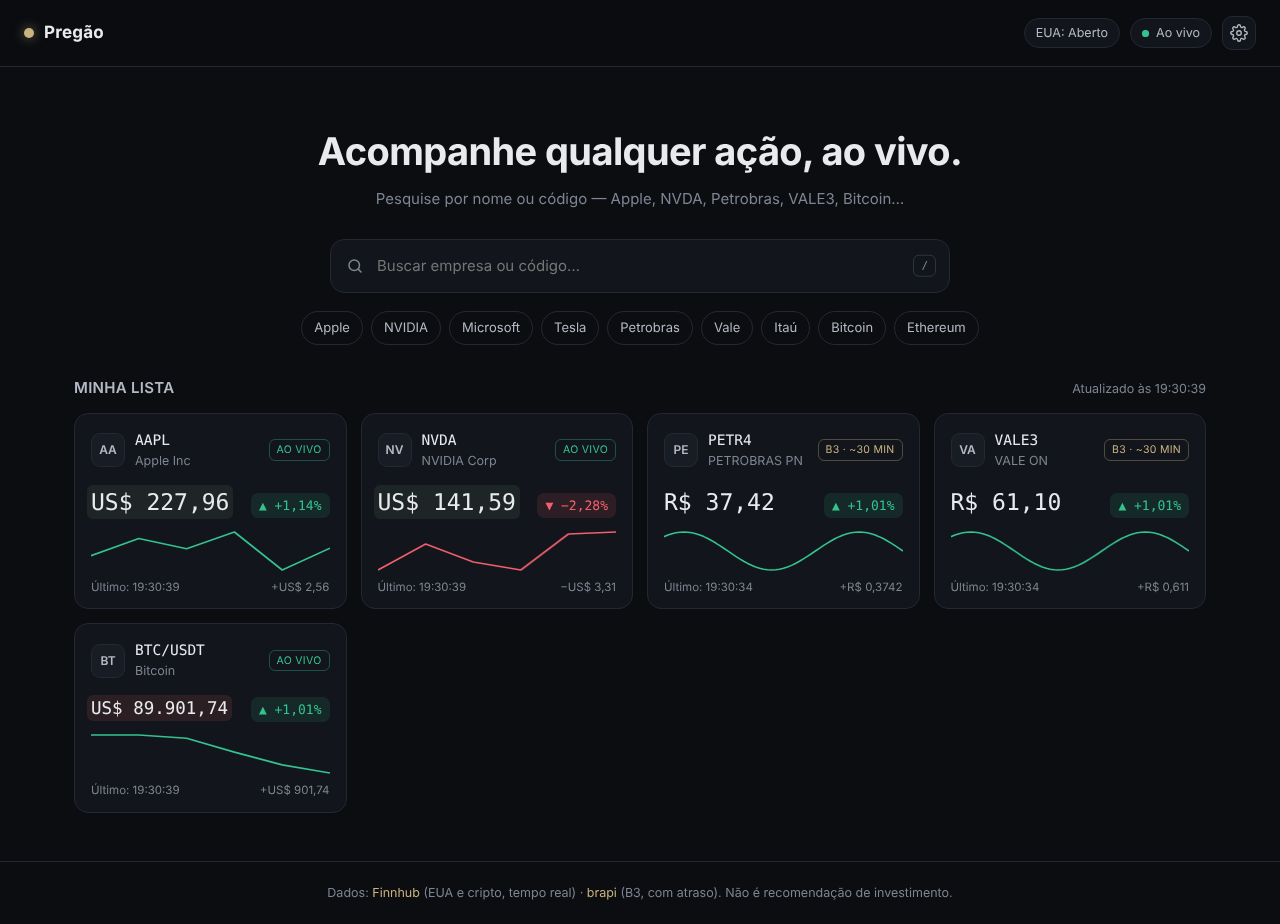
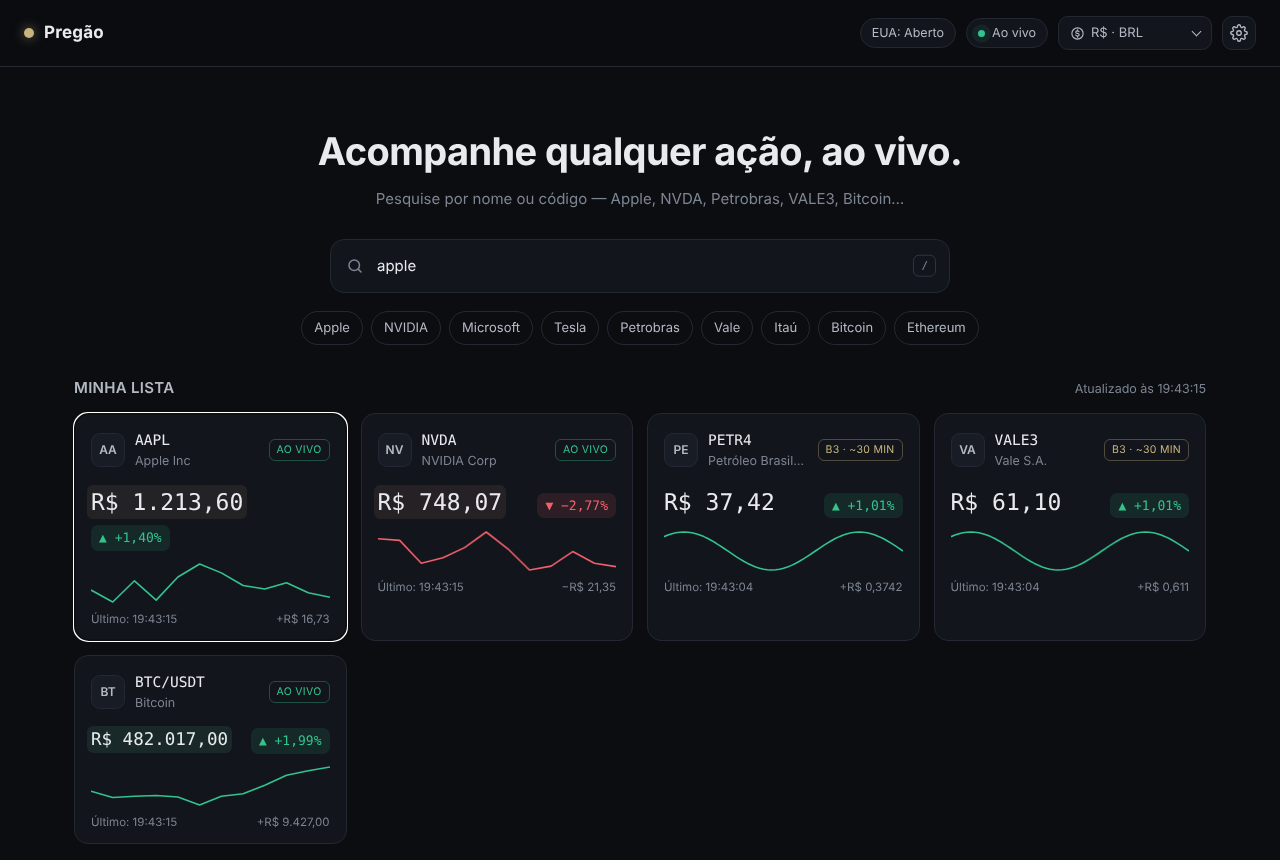
Seletor de moeda + correções de 429 (brapi) e certificado (Binance)
- Novo seletor no topo converte preços, máx/mín, valor de mercado e eixo do gráfico
- brapi: histórico do dia só 1x por ativo; pausa de 2 min ao receber 429
- Binance: tenta data-api.binance.vision antes; para de tentar por 15 min se falhar
- Selo FECHADO fora do pregão dos EUA; não troca nome da empresa pelo código

Claude-Session: https://claude.ai/code/session_01YYtk73oqadMUVx7w9VjdFd

diff --git a/app.js b/app.js
@@ -18,6 +18,27 @@ const FINNHUB_REST = "https://finnhub.io/api/v1";
 const FINNHUB_WS = "wss://ws.finnhub.io";
 const BRAPI = "https://brapi.dev/api";
 const BINANCE = "https://api.binance.com/api/v3";
+// [NOVO] Câmbio: open.er-api (160+ moedas) e reserva Frankfurter (Banco Central Europeu) — grátis e sem chave
+const FX_APIS = [
+  { url: "https://open.er-api.com/v6/latest/USD", pick: (j) => j.rates, date: (j) => j.time_last_update_utc && new Date(j.time_last_update_utc).toISOString().slice(0, 10) },
+  { url: "https://api.frankfurter.dev/v1/latest?base=USD", pick: (j) => ({ USD: 1, ...j.rates }), date: (j) => j.date },
+];
+const FX_REFRESH_MS = 60 * 60 * 1000; // câmbio de referência muda pouco: 1x por hora
+
+// [NOVO] Moedas que aparecem no seletor ("orig" = moeda original do ativo)
+const CURRENCIES = [
+  { code: "orig", label: "Moeda original" },
+  { code: "BRL", label: "R$ · BRL" },
+  { code: "USD", label: "US$ · USD" },
+  { code: "EUR", label: "€ · EUR" },
+  { code: "GBP", label: "£ · GBP" },
+  { code: "JPY", label: "¥ · JPY" },
+  { code: "CAD", label: "C$ · CAD" },
+  { code: "CHF", label: "Fr · CHF" },
+  { code: "CNY", label: "¥ · CNY" },
+  { code: "ARS", label: "$ · ARS" },
+];
+const STORAGE_CCY = "pregao.currency";
 
 const STORAGE_CONFIG = "pregao.config";
 const STORAGE_LIST = "pregao.watchlist";
@@ -61,6 +82,9 @@ const state = {
   ws: null,
   wsRetry: 0,
   detail: null,      // símbolo aberto no painel
+  currency: load(STORAGE_CCY, "orig"), // [NOVO] moeda escolhida no seletor
+  fx: { USD: 1 },    // [NOVO] quanto vale 1 dólar em cada moeda (ex.: fx.BRL = 5,4)
+  fxDate: null,      // [NOVO] data da cotação do câmbio
   dirty: new Set(),  // símbolos que precisam ser redesenhados
   timers: [],
 };
@@ -95,21 +119,44 @@ function currencyOf(symbol) {
   return providerOf(symbol) === "b3" ? "BRL" : "USD";
 }
 
+// [NOVO] Moeda em que o valor vai ser MOSTRADO (a escolhida ou a original)
+function targetCurrency(symbol) {
+  const c = state.currency;
+  if (c === "orig" || !state.fx[c]) return currencyOf(symbol); // sem câmbio carregado → original
+  return c;
+}
+// [NOVO] Converte um valor da moeda original do ativo para a moeda escolhida
+// Regra de três via dólar: valor ÷ (moeda original por US$) × (moeda alvo por US$)
+function convert(v, symbol) {
+  if (v == null || isNaN(v)) return v;
+  const from = currencyOf(symbol), to = targetCurrency(symbol);
+  if (from === to) return v;
+  return (v / state.fx[from]) * state.fx[to];
+}
+
+// [ALTERADO] Agora converte antes de formatar
 function fmtPrice(v, symbol) {
   if (v == null || isNaN(v)) return "—";
-  const digits = v < 1 ? 6 : v < 10 ? 3 : 2;
+  v = convert(v, symbol);
+  const currency = targetCurrency(symbol);
+  // Moedas sem centavos (ex.: iene) usam 0 casas; as outras, 2
+  const base = new Intl.NumberFormat("pt-BR", { style: "currency", currency }).resolvedOptions().minimumFractionDigits;
+  const digits = v < 1 ? 6 : v < 10 ? Math.max(base, 3) : base;
   return new Intl.NumberFormat("pt-BR", {
-    style: "currency", currency: currencyOf(symbol),
-    minimumFractionDigits: 2, maximumFractionDigits: digits,
+    style: "currency", currency,
+    minimumFractionDigits: base, maximumFractionDigits: digits,
   }).format(v);
 }
 function fmtNum(v, digits = 2) {
   if (v == null || isNaN(v)) return "—";
   return new Intl.NumberFormat("pt-BR", { minimumFractionDigits: digits, maximumFractionDigits: digits }).format(v);
 }
+// [ALTERADO] Converte e usa o símbolo da moeda escolhida
 function fmtBig(v, symbol) {
   if (!v) return "—";
-  const cur = currencyOf(symbol) === "BRL" ? "R$" : "US$";
+  v = convert(v, symbol);
+  const code = targetCurrency(symbol);
+  const cur = { BRL: "R$", USD: "US$" }[code] || code;
   if (v >= 1e12) return `${cur} ${fmtNum(v / 1e12)} tri`;
   if (v >= 1e9) return `${cur} ${fmtNum(v / 1e9)} bi`;
   if (v >= 1e6) return `${cur} ${fmtNum(v / 1e6)} mi`;
@@ -223,17 +270,25 @@ async function loadUS(symbol) {
 }
 
 /* ---------- 4.2 Ações da B3 (brapi, com atraso) ---------- */
+// [CORRIGIDO] A brapi devolvia 429 (limite de requisições) porque o histórico do dia
+// era pedido de novo a cada atualização. Agora: histórico só 1 vez por ativo e,
+// se der 429, o app espera 2 min sem chamar a brapi e mantém o último preço na tela.
+let brapiPausedUntil = 0;
+
 async function loadB3(symbol, withHistory = false) {
   const r = rec(symbol);
   const ticker = displaySymbol(symbol);
+  if (Date.now() < brapiPausedUntil) return;             // em pausa por limite
+  const wantHistory = withHistory && !r.histTried;       // histórico só uma vez
   try {
-    const params = withHistory ? { range: "1d", interval: "5m" } : {};
     let json;
-    try { json = await brapi(`/quote/${ticker}`, params); }
-    catch (e) {
-      // Se o histórico não estiver liberado no plano, tenta só a cotação
-      if (withHistory && e.message !== "BRAPI_TOKEN") json = await brapi(`/quote/${ticker}`);
-      else throw e;
+    try {
+      json = await brapi(`/quote/${ticker}`, wantHistory ? { range: "1d", interval: "5m" } : {});
+    } catch (e) {
+      if (!wantHistory || e.message === "BRAPI_TOKEN" || e.message === "RATE_LIMIT") throw e;
+      json = await brapi(`/quote/${ticker}`);           // histórico indisponível → só cotação
+    } finally {
+      if (wantHistory) r.histTried = true;
     }
     const q = json.results && json.results[0];
     if (!q || q.regularMarketPrice == null) throw new Error("NOT_FOUND");
@@ -251,7 +306,7 @@ async function loadB3(symbol, withHistory = false) {
       name: q.longName || q.shortName, logo: q.logourl, marketCap: q.marketCap,
       exchange: "B3", country: "BR",
     };
-    setName(symbol, q.shortName || q.longName);
+    setName(symbol, q.longName || q.shortName);
 
     // Histórico intradiário (se veio)
     if (Array.isArray(q.historicalDataPrice) && q.historicalDataPrice.length) {
@@ -262,34 +317,54 @@ async function loadB3(symbol, withHistory = false) {
     }
     pushTick(r, r.lastTs, r.price);
   } catch (e) {
+    if (e.message === "RATE_LIMIT") {
+      brapiPausedUntil = Date.now() + 120_000;           // pausa de 2 min
+      if (r.price != null) { markDirty(symbol); return; } // mantém o último preço
+    }
     r.status = "err";
     r.note = e.message === "BRAPI_TOKEN" ? "Precisa do token da brapi"
            : e.message === "NOT_FOUND" ? "Código não encontrado na B3"
-           : e.message === "RATE_LIMIT" ? "Limite da brapi — aguarde"
+           : e.message === "RATE_LIMIT" ? "Limite da brapi — tentando de novo em 2 min"
            : "Falha ao buscar (brapi)";
   }
   markDirty(symbol);
 }
 
 /* ---------- 4.3 Cripto (variação de 24h pela Binance) ---------- */
+// [CORRIGIDO] api.binance.com dava ERR_CERT_AUTHORITY_INVALID na sua rede
+// (antivírus ou provedor interceptando o certificado). Agora tenta primeiro o
+// domínio público de dados da Binance; se nenhum funcionar, para de tentar por 15 min
+// e usa a variação desde que a página abriu. O preço ao vivo (Finnhub) não é afetado.
+const BINANCE_HOSTS = ["https://data-api.binance.vision/api/v3", BINANCE];
+let binanceHost = null;          // domínio que funcionou
+let binancePausedUntil = 0;
+
 async function loadCryptoStats(symbol) {
   const r = rec(symbol);
   const pair = symbol.split(":")[1];
-  try {
-    const res = await fetch(`${BINANCE}/ticker/24hr?symbol=${pair}`);
-    if (!res.ok) throw new Error();
-    const s = await res.json();
-    r.prevClose = parseFloat(s.openPrice);  // referência = preço de 24h atrás
-    r.open = parseFloat(s.openPrice);
-    r.high = parseFloat(s.highPrice);
-    r.low = parseFloat(s.lowPrice);
-    r.volume = parseFloat(s.volume);
-    if (r.price == null) { r.price = parseFloat(s.lastPrice); r.lastTs = Date.now(); }
-    if (r.status === "wait") r.status = "ready";
-    r.note = "Variação de 24h";
-  } catch {
-    r.note = "Variação desde que você abriu a página";
+  if (Date.now() < binancePausedUntil) return;
+  const hosts = binanceHost ? [binanceHost] : BINANCE_HOSTS;
+  for (const host of hosts) {
+    try {
+      const res = await fetch(`${host}/ticker/24hr?symbol=${pair}`);
+      if (!res.ok) throw new Error();
+      const s = await res.json();
+      binanceHost = host;
+      r.prevClose = parseFloat(s.openPrice);  // referência = preço de 24h atrás
+      r.open = parseFloat(s.openPrice);
+      r.high = parseFloat(s.highPrice);
+      r.low = parseFloat(s.lowPrice);
+      r.volume = parseFloat(s.volume);
+      if (r.price == null) { r.price = parseFloat(s.lastPrice); r.lastTs = Date.now(); }
+      if (r.status === "wait") r.status = "ready";
+      r.note = "Variação de 24h";
+      markDirty(symbol);
+      return;
+    } catch { /* tenta o próximo domínio */ }
   }
+  binanceHost = null;
+  binancePausedUntil = Date.now() + 15 * 60_000;
+  r.note = "Variação desde que você abriu a página";
   markDirty(symbol);
 }
 
@@ -427,6 +502,8 @@ function badgeFor(symbol, r) {
   if (r.status === "delay") return { text: "B3 · ~30 MIN", cls: "delay" };
   if (r.status === "live") return { text: "AO VIVO", cls: "live" };
   if (providerOf(symbol) === "b3") return { text: "B3", cls: "" };
+  // [NOVO] Fora do pregão americano mostra "FECHADO" em vez de "AGUARDANDO"
+  if (providerOf(symbol) === "us" && state.usMarketOpen === false) return { text: "FECHADO", cls: "" };
   return { text: "AGUARDANDO", cls: "" };
 }
 
@@ -573,7 +650,12 @@ function updateDetail() {
     crypto: r.status === "live" ? "● Ao vivo pela Finnhub (Binance) — 24h por dia." : "Aguardando negociações…",
     b3: "brapi · plano grátis com atraso de ~30 min. Atualiza a cada 2 min.",
   }[provider];
-  $("#d-source").textContent = r.status === "err" ? `⚠ ${r.note}` : `${src} Último: ${fmtTime(r.lastTs)}`;
+  // [ALTERADO] Avisa quando o valor está convertido
+  const from = currencyOf(symbol), to = targetCurrency(symbol);
+  const fxNote = from !== to
+    ? ` Convertido de ${from} para ${to} pelo câmbio de referência${state.fxDate ? ` de ${state.fxDate.split("-").reverse().join("/")}` : ""}.`
+    : "";
+  $("#d-source").textContent = r.status === "err" ? `⚠ ${r.note}` : `${src} Último: ${fmtTime(r.lastTs)}.${fxNote}`;
 
   // Estatísticas
   const refLabel = provider === "crypto" ? "Preço 24h atrás" : "Fechamento anterior";
@@ -646,7 +728,8 @@ function drawDetailChart() {
     const yy = y(v);
     ctx.strokeStyle = border; ctx.lineWidth = 1;
     ctx.beginPath(); ctx.moveTo(padL, yy); ctx.lineTo(w - padR, yy); ctx.stroke();
-    ctx.fillText(fmtNum(v, v < 10 ? 3 : 2), w - padR + 8, yy);
+    const cv = convert(v, symbol); // [ALTERADO] eixo do gráfico na moeda escolhida
+    ctx.fillText(fmtNum(cv, cv < 10 ? 3 : 2), w - padR + 8, yy);
   }
   // Rótulos de horário (início e fim)
   ctx.textBaseline = "alphabetic";
@@ -730,7 +813,8 @@ function bindChartHover() {
    ========================================================= */
 function setName(symbol, name) {
   const item = state.list.find((i) => i.symbol === symbol);
-  if (item && name && item.name !== name) {
+  // [CORRIGIDO] não troca um nome bom (ex.: "Petrobras") pelo próprio código ("PETR4")
+  if (item && name && item.name !== name && name.toUpperCase() !== displaySymbol(symbol)) {
     item.name = name;
     save(STORAGE_LIST, state.list);
     const c = state.cards[symbol];
@@ -917,7 +1001,54 @@ async function loadMarketStatus() {
       ? (s.session === "pre-market" ? "Pré-mercado" : s.session === "post-market" ? "After-market" : "Aberto")
       : (s.holiday ? `Feriado (${s.holiday})` : "Fechado");
     el.textContent = `EUA: ${label}`;
+    state.usMarketOpen = !!s.isOpen; // [NOVO] usado no selo dos cards
+    redrawAll();
   } catch { el.textContent = "Mercado: —"; }
+}
+
+/* =========================================================
+   10.1 [NOVO] CÂMBIO E SELETOR DE MOEDA
+   ========================================================= */
+async function loadFx() {
+  for (const api of FX_APIS) {
+    try {
+      const res = await fetch(api.url);
+      if (!res.ok) continue;
+      const j = await res.json();
+      const rates = api.pick(j);
+      if (!rates || !rates.BRL) continue;
+      state.fx = rates;
+      state.fxDate = api.date(j) || null;
+      updateCurrencyOptions();
+      redrawAll();
+      return;
+    } catch { /* tenta a próxima API */ }
+  }
+  // Nenhuma API respondeu: volta para a moeda original
+  if (state.currency !== "orig") toast("Não consegui carregar o câmbio — mostrando a moeda original.");
+  updateCurrencyOptions();
+}
+
+// Desativa no seletor as moedas que a API de câmbio não trouxe
+function updateCurrencyOptions() {
+  const sel = $("#currency-select");
+  [...sel.options].forEach((o) => { o.disabled = o.value !== "orig" && !state.fx[o.value]; });
+}
+
+// Redesenha todos os cards e o painel aberto
+function redrawAll() {
+  state.list.forEach((i) => markDirty(i.symbol));
+}
+
+function bindCurrency() {
+  const sel = $("#currency-select");
+  sel.innerHTML = CURRENCIES.map((c) => `<option value="${c.code}">${esc(c.label)}</option>`).join("");
+  sel.value = CURRENCIES.some((c) => c.code === state.currency) ? state.currency : "orig";
+  sel.addEventListener("change", () => {
+    state.currency = sel.value;
+    save(STORAGE_CCY, state.currency);
+    redrawAll();
+  });
 }
 
 /* =========================================================
@@ -947,6 +1078,9 @@ function startTimers() {
 
   // Status do mercado a cada 5 min
   state.timers.push(setInterval(loadMarketStatus, 300_000));
+
+  // [NOVO] Câmbio a cada 1 hora
+  state.timers.push(setInterval(loadFx, FX_REFRESH_MS));
 }
 
 async function loadAll() {
@@ -1026,6 +1160,8 @@ function init() {
   bindSettings();
   bindGlobal();
   bindChartHover();
+  bindCurrency(); // [NOVO] monta o seletor de moeda
+  loadFx();       // [NOVO] busca o câmbio
   renderList();
 
   if (!state.config.finnhubKey) {

diff --git a/index.html b/index.html
@@ -23,6 +23,12 @@
       <span id="ws-status" class="pill pill-off" title="Conexão em tempo real (WebSocket)">
         <span class="pill-dot"></span><span class="pill-text">Desconectado</span>
       </span>
+      <!-- [NOVO] Seletor de moeda: converte todos os preços para a moeda escolhida -->
+      <label class="currency-picker" title="Moeda em que os preços são mostrados">
+        <svg width="15" height="15" viewBox="0 0 24 24" fill="none" stroke="currentColor" stroke-width="1.8" stroke-linecap="round"><circle cx="12" cy="12" r="9"/><path d="M14.5 9.2c-.5-.9-1.5-1.4-2.6-1.4-1.6 0-2.7.8-2.7 2s1.1 1.7 2.7 2 2.8.8 2.8 2.1-1.2 2.1-2.8 2.1c-1.2 0-2.3-.6-2.8-1.5M12 6v1.8M12 16.2V18"/></svg>
+        <select id="currency-select" aria-label="Moeda"></select>
+      </label>
+
       <button id="btn-settings" class="icon-btn" title="Configurações / chaves de API" aria-label="Configurações">
         <svg width="18" height="18" viewBox="0 0 24 24" fill="none" stroke="currentColor" stroke-width="1.8" stroke-linecap="round" stroke-linejoin="round"><circle cx="12" cy="12" r="3"/><path d="M19.4 15a1.65 1.65 0 0 0 .33 1.82l.06.06a2 2 0 1 1-2.83 2.83l-.06-.06a1.65 1.65 0 0 0-1.82-.33 1.65 1.65 0 0 0-1 1.51V21a2 2 0 1 1-4 0v-.09A1.65 1.65 0 0 0 9 19.4a1.65 1.65 0 0 0-1.82.33l-.06.06a2 2 0 1 1-2.83-2.83l.06-.06A1.65 1.65 0 0 0 4.68 15a1.65 1.65 0 0 0-1.51-1H3a2 2 0 1 1 0-4h.09A1.65 1.65 0 0 0 4.6 9a1.65 1.65 0 0 0-.33-1.82l-.06-.06a2 2 0 1 1 2.83-2.83l.06.06A1.65 1.65 0 0 0 9 4.68a1.65 1.65 0 0 0 1-1.51V3a2 2 0 1 1 4 0v.09a1.65 1.65 0 0 0 1 1.51 1.65 1.65 0 0 0 1.82-.33l.06-.06a2 2 0 1 1 2.83 2.83l-.06.06A1.65 1.65 0 0 0 19.4 9a1.65 1.65 0 0 0 1.51 1H21a2 2 0 1 1 0 4h-.09a1.65 1.65 0 0 0-1.51 1z"/></svg>
       </button>

diff --git a/style.css b/style.css
@@ -95,6 +95,36 @@ input { font: inherit; }
   100% { box-shadow: 0 0 0 0 rgba(52, 195, 143, 0); }
 }
 
+/* [NOVO] Seletor de moeda (mesmo visual das pílulas do cabeçalho) */
+.currency-picker {
+  position: relative;
+  display: inline-flex; align-items: center; gap: 6px;
+  height: 34px;
+  padding: 0 28px 0 11px;
+  border: 1px solid var(--border);
+  border-radius: 10px;
+  background: var(--surface);
+  color: var(--text-2);
+  cursor: pointer;
+  transition: border-color .15s;
+}
+.currency-picker:hover, .currency-picker:focus-within { border-color: var(--accent); color: var(--text); }
+.currency-picker::after {           /* setinha */
+  content: ""; position: absolute; right: 11px; top: 50%;
+  width: 6px; height: 6px; margin-top: -5px;
+  border-right: 1.6px solid currentColor; border-bottom: 1.6px solid currentColor;
+  transform: rotate(45deg);
+  pointer-events: none;
+}
+.currency-picker select {
+  appearance: none; -webkit-appearance: none;
+  background: transparent; border: 0; outline: none;
+  color: inherit; font: inherit; font-size: 13px;
+  cursor: pointer;
+}
+.currency-picker option { background: var(--surface-2); color: var(--text); }
+.currency-picker option:disabled { color: var(--muted); }
+
 .icon-btn {
   display: inline-grid; place-items: center;
   width: 34px; height: 34px;

diff --git a/README.md b/README.md
@@ -34,6 +34,7 @@ Limites do plano grátis da Finnhub: 60 requisições/minuto e até 50 ativos ao
 - Cards com preço piscando verde/vermelho a cada negócio, variação do dia e mini-gráfico.
 - Painel de detalhes: gráfico com mira e tooltip, abertura, máxima, mínima, fechamento anterior, valor de mercado, setor e site.
 - Selo de status em cada ativo: **AO VIVO**, **B3 · ~30 MIN**, **AGUARDANDO** ou **ERRO**.
+- **Seletor de moeda** no topo: converte todos os preços (BRL, USD, EUR, GBP, JPY…) pelo câmbio de referência do dia (open.er-api / Frankfurter, sem chave). A variação em % não muda.
 - Status do mercado americano (aberto, pré-mercado, after-market, fechado).
 - Reconexão automática do WebSocket.
 - A lista fica salva no navegador.
